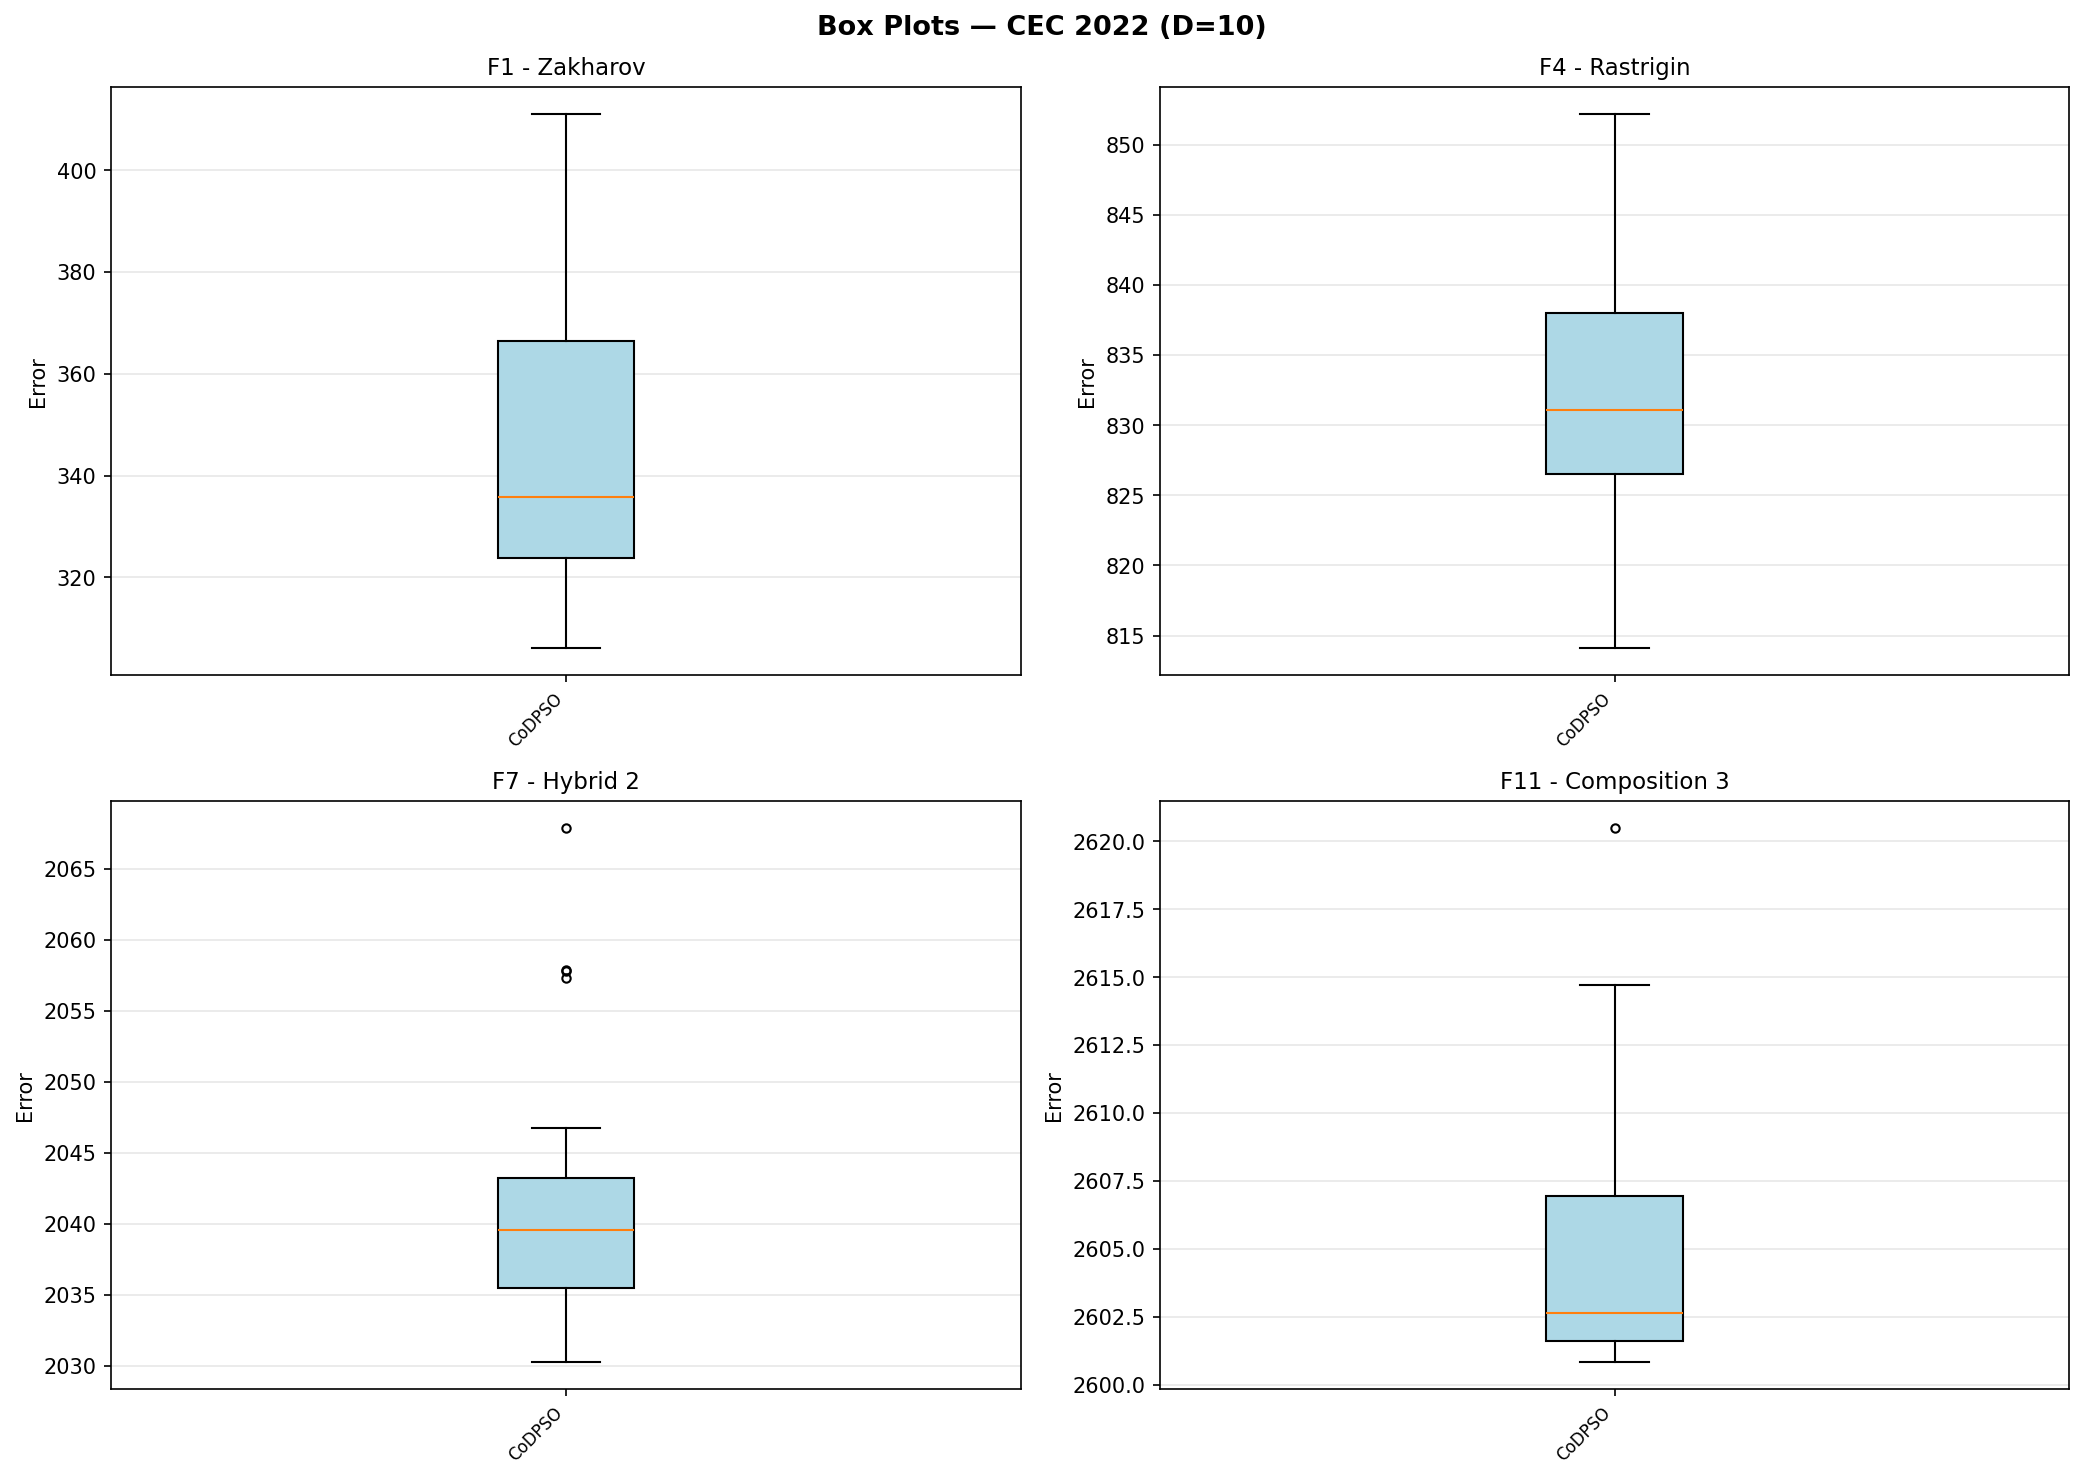
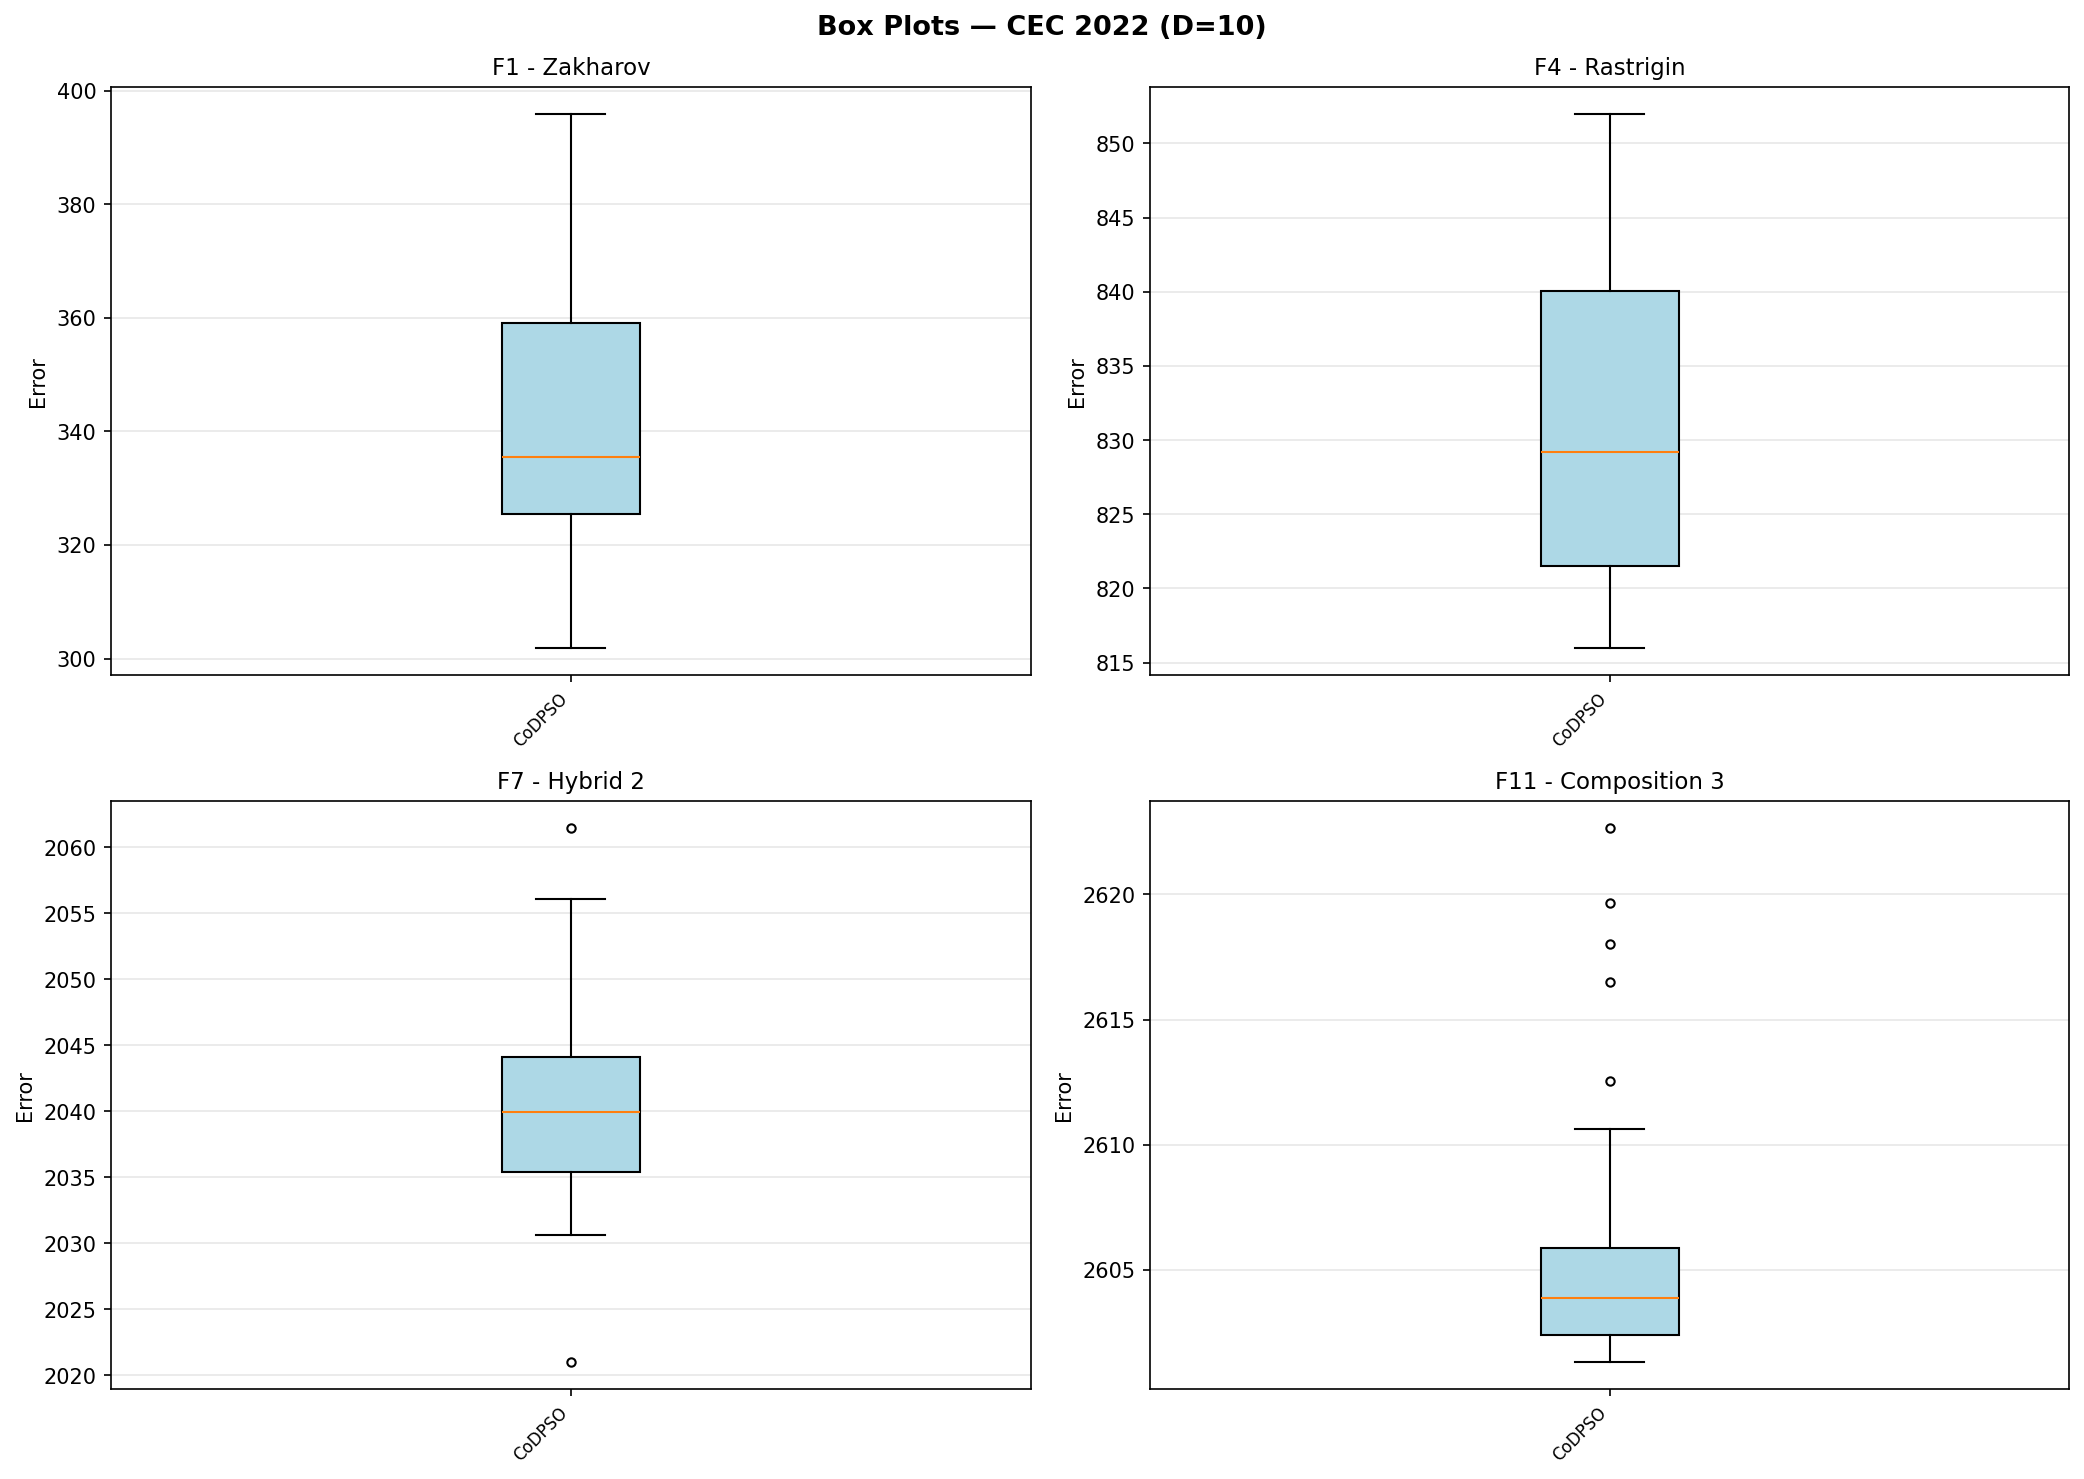
final update

diff --git a/dpso.py b/dpso.py
@@ -4,24 +4,18 @@ import config
 
 class Particle:
     def __init__(self, dim):
-        x_min = config.SEARCH_BOUNDS[0]   #-100
-        x_max = config.SEARCH_BOUNDS[1]   # 100
+        x_min = config.SEARCH_BOUNDS[0]
+        x_max = config.SEARCH_BOUNDS[1]
 
-        self.position = (
-            np.random.rand(dim) * (x_max - x_min) + x_min
-        )
+        self.position = np.random.rand(dim) * (x_max - x_min) + x_min
 
-        v_max = (x_max - x_min) / 4.0     #= 50
-        v_min = -v_max                    #= -50
-
-        self.velocity = (
-            np.random.rand(dim) * (v_max - v_min) + v_min
-        )
+        v_max = (x_max - x_min) / 4.0
+        v_min = -v_max
+        self.velocity = np.random.rand(dim) * (v_max - v_min) + v_min
 
         self.pbest_position = self.position.copy()
         self.pbest_value    = np.inf
 
-        #Velocity history - newest entry first
         self.velocity_history = [self.velocity.copy()]
 
 
@@ -33,14 +27,12 @@ class Swarm:
         self.gbest_position = self.particles[0].position.copy()
         self.gbest_value    = np.inf
 
-        self.stagnancy_counter = 0   #SC in the paper
-        self.n_kill            = 0   #particles removed since last improvement
-        self.n_kill_total = 0
+        self.stagnancy_counter = 0
 
-    #Punitive strategy helpers
+        self.n_kill       = 0   #kills this iteration only (resets each iteration)
+        self.n_kill_total = 0   #cumulative kills since last improvement — used in Eq.(7)
 
     def delete_worst_particle(self):
-        #Remove the particle with the highest (worst) pbest value
         if len(self.particles) == 0:
             return
         worst_idx = max(
@@ -48,22 +40,22 @@ class Swarm:
             key=lambda i: self.particles[i].pbest_value
         )
         self.particles.pop(worst_idx)
-        self.n_kill += 1
+        self.n_kill       += 1
         self.n_kill_total += 1
 
     def spawn_particle(self):
-        #Add a new randomly initialised particle to this swarm
         if len(self.particles) < config.N_MAX:
             self.particles.append(Particle(self.dim))
 
     def reset_stagnancy_counter(self):
-        #Reset SC after a deletion using paper Eq
+        #SC = SC_max * (1 - 1/(1 + N_kill))
+        #Uses n_kill_total so SC grows with repeated deletions
         self.stagnancy_counter = int(
             config.SC_MAX * (1.0 - 1.0 / (1.0 + self.n_kill_total))
         )
 
     def reset_kill_counters(self):
-        #to restart the kill cycle
+        #called on genuine improvement — restarts the kill cycle
         self.n_kill       = 0
         self.n_kill_total = 0
 

diff --git a/config.py b/config.py
@@ -1,24 +1,23 @@
-DIMENSION = 10                  
+DIMENSION = 10
 SEARCH_BOUNDS = (-100, 100)
-MAX_FES_FACTOR = 1000           #Max FEs = 1000 * D
+MAX_FES_FACTOR = 1000
 
-#based on table 14
-ALPHA = 0.3                     #Real part of complex order
-BETA  = 0.8                     #Imaginary part of complex order
-MEMORY_LENGTH = 4               #r=4
+ALPHA = 0.3
+BETA  = 0.8
+MEMORY_LENGTH = 4
 
-W  = 1.0                        #Inertia weight
-C1 = 1.5                        #Cognitive coefficient
-C2 = 1.5                        #Social coefficient
+W  = 1.0
+C1 = 1.5
+C2 = 1.5
 
-NUM_SWARMS     = 5              #Initial number of swarms
-NS_MIN         = 3              #Minimum number of swarms
-NS_MAX         = 10             #Maximum number of swarms
+NUM_SWARMS          = 5
+NS_MIN              = 3
+NS_MAX              = 10
 
-PARTICLES_PER_SWARM = 10        #Initial particles per swarm
-N_MIN          = 3             #Minimum particles per swarm
-N_MAX          = 50             #Maximum particles per swarm
+PARTICLES_PER_SWARM = 10
+N_MIN               = 3       # FIX: was 10 — equalled PARTICLES_PER_SWARM, killing swarms instantly
+N_MAX               = 50
 
-SC_MAX         = 30             #Stagnancy counter limit
+SC_MAX              = 30
 
-RUNS = 30                       #Independent runs per function
+RUNS = 30
